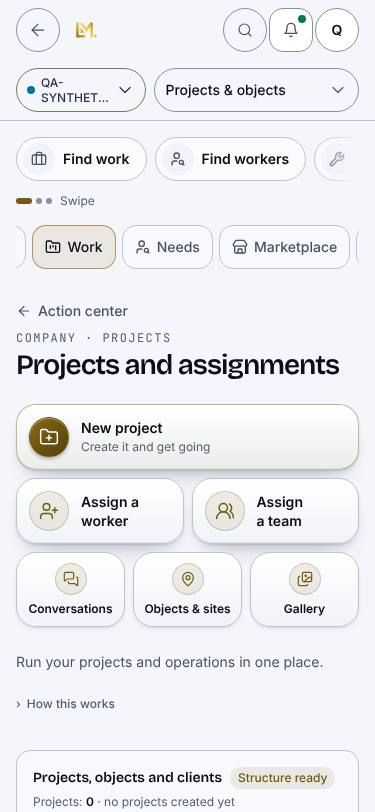
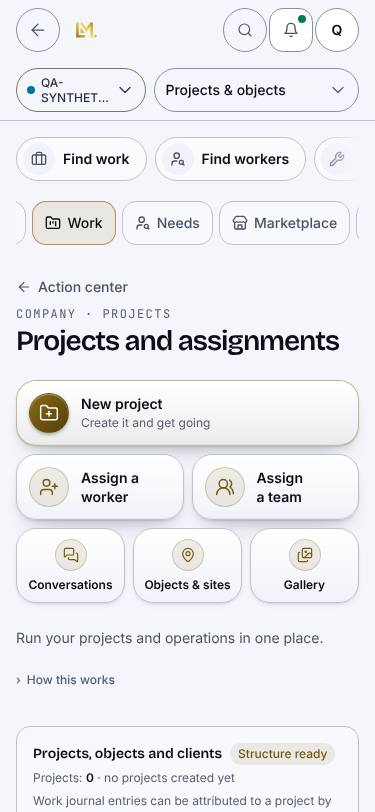
fix(nav): one-row goal strip on phones (N5)
Lane A review: the strip was 88 px at <=390 because of the swipe hint
row, so the header plus the strip took 209 px above every inner page.
The strip drops the hint (the pill cut at the edge already shows there
is more) and is 64 px at every width, not sticky, outside the header.
h1 moves 64 px (journal 261 -> 325). Header isolated e2e: 30/30.

Claude-Session: https://claude.ai/code/session_011vBC1eyU3EySXpxY7JQoy5

Changed region(s): [[0.0293, 0.2463, 0.968, 0.8929], [0.088, 0.8929, 0.9093, 1.0], [0.616, 0.2463, 0.9387, 0.3387]]

diff --git a/apps/web/lib/guards/landing-intent-choice.test.ts b/apps/web/lib/guards/landing-intent-choice.test.ts
@@ -128,7 +128,8 @@ describe("one rail, one panel", () => {
     expect(rail).not.toMatch(/scrollTo\(|scrollLeft\s*=/);
     // Fade + dots + the word on touch widths; arrows only when it overflows.
     expect(rail).toMatch(/mask-image:linear-gradient/);
-    expect(rail).toMatch(/\{overflows && \(\s*<p[\s\S]{0,200}md:hidden/);
+    // The goal strip (N5) shows "more" by the cut pill alone: one row.
+    expect(rail).toMatch(/\{overflows && !strip && \(\s*<p[\s\S]{0,200}md:hidden/);
     expect(rail).toMatch(/\{overflows && \(\s*<button/);
     expect(rail).toMatch(/hidden size-11[^"]*md:inline-flex/);
   });

diff --git a/apps/web/components/navigation/card-rail.tsx b/apps/web/components/navigation/card-rail.tsx
@@ -307,8 +307,11 @@ export function CardRail({
           </button>
         )}
       </div>
-      {/* Touch widths: it must be obvious there is more. */}
-      {overflows && (
+      {/* Touch widths: it must be obvious there is more. The strip says it
+          with the pill cut at the edge alone: one row under the header,
+          never a second line of chrome on every inner page (Lane A review
+          of N5: header 121 px + strip). */}
+      {overflows && !strip && (
         <p
           aria-hidden
           data-rail-part="hint"
